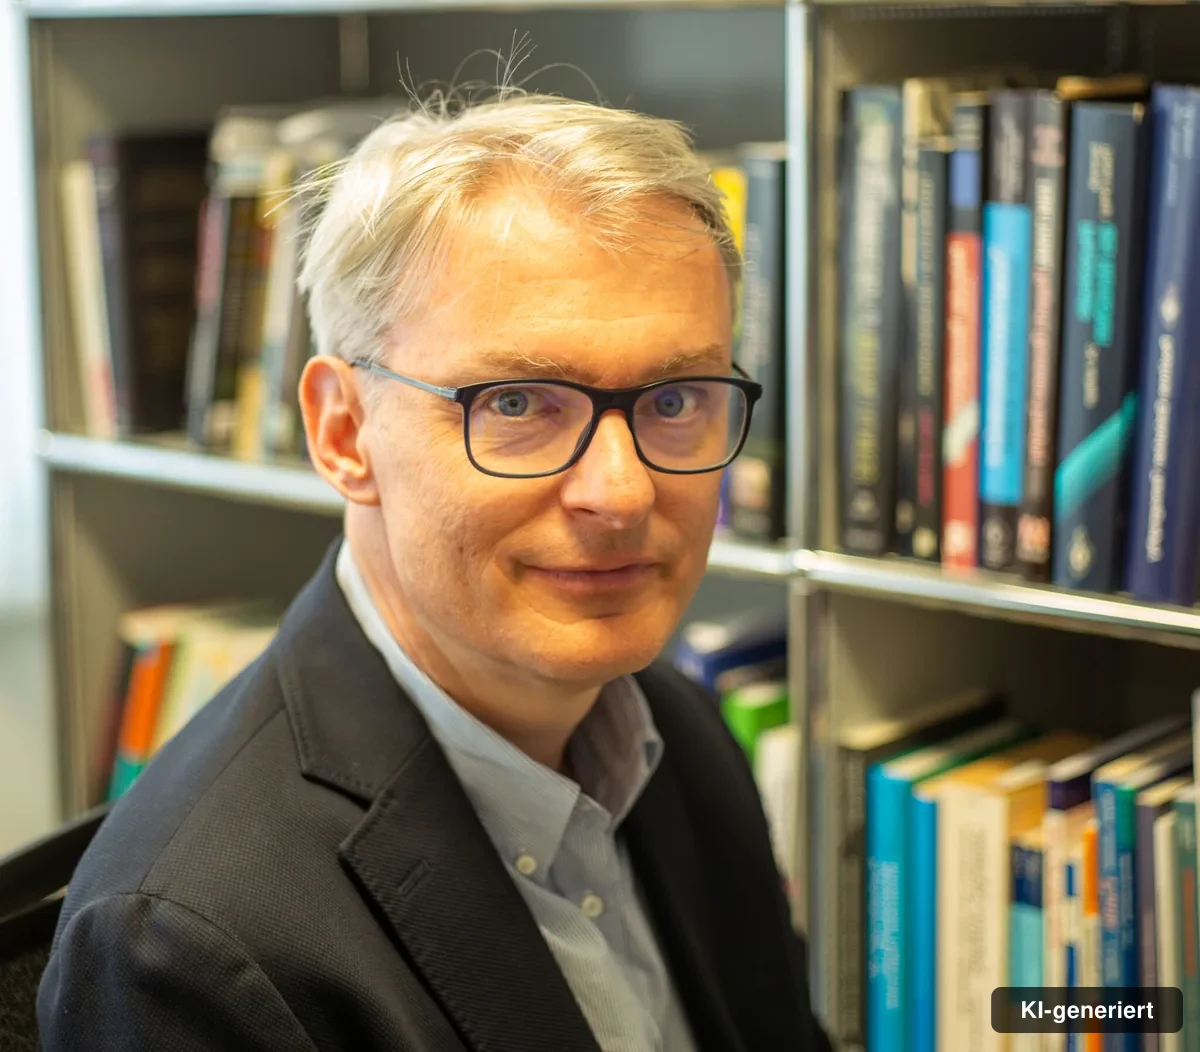
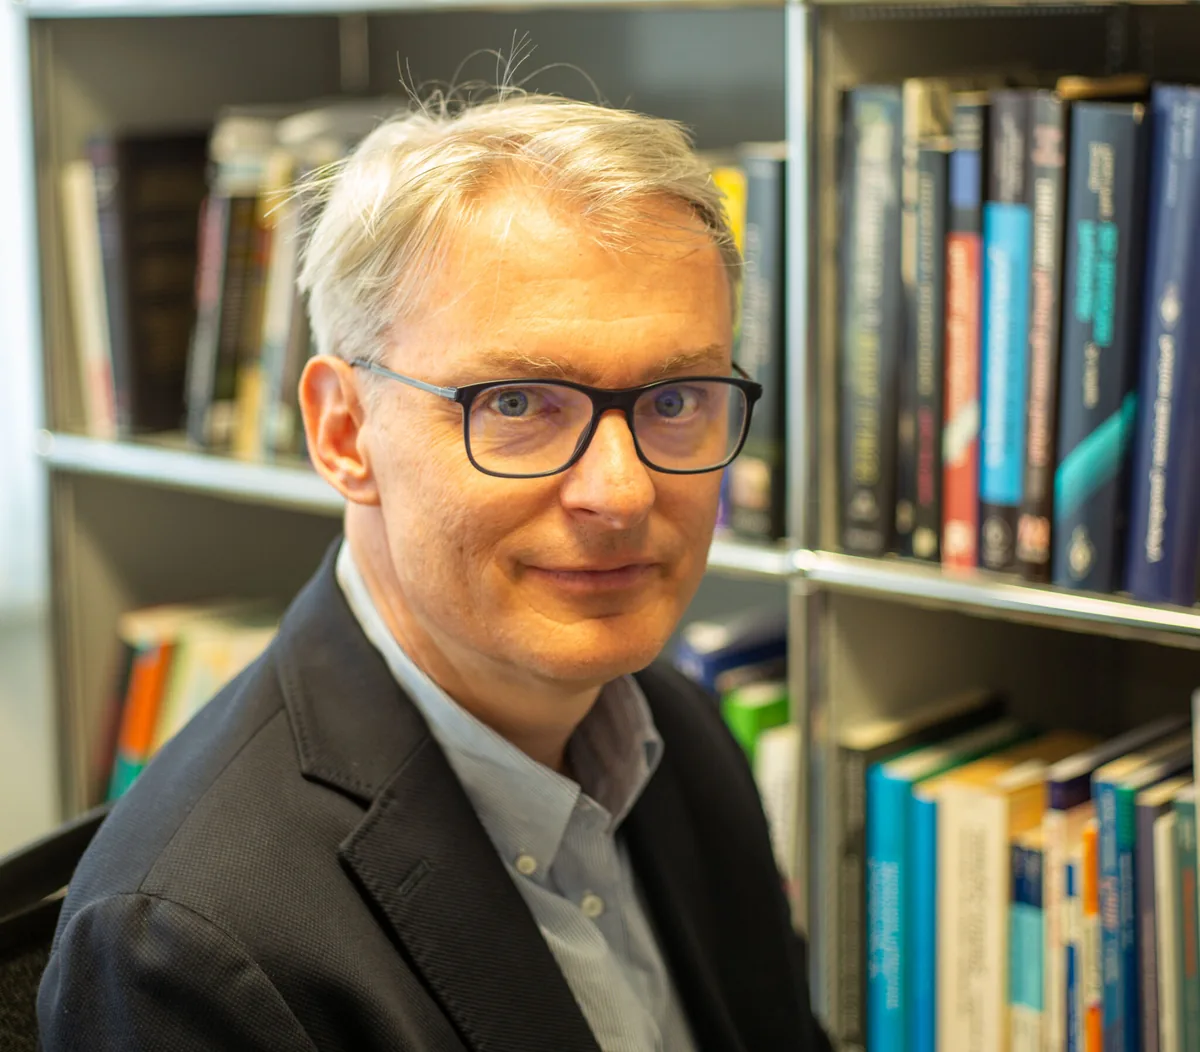
fix(ki-vo): echte Pressefotos faelschlich als KI markiert - korrigiert
Fehler: Die Regel "isNews:false -> KI" war zu grob. Die promi-*-Artikel
sind keine News, nutzen aber lizenzierte Pressefotos (ZDF, RTL, SRF,
SAT.1, Wikimedia CC, Verlagsfotos). 58 Bilder trugen faelschlich Badge
und trainedAlgorithmicMedia.

Ein KI-Label auf einem lizenzierten Pressefoto ist selbst irrefuehrend
(§ 5 UWG) und entwertet die Credit-Angabe des Rechteinhabers.

Korrektur:
- Bilder aus der Git-History vor dem Batch wiederhergestellt (Badge weg)
- nur echten Credit als XMP gesetzt, kein trainedAlgorithmicMedia
- istEchtesFoto() ergaenzt: aiGenerated beruecksichtigt jetzt den Credit,
  nicht nur isNews

Changed region(s): [[0.8017, 0.9125, 0.9867, 1.0]]

diff --git a/src/app/singles-partnersuche/[slug]/page.tsx b/src/app/singles-partnersuche/[slug]/page.tsx
@@ -43,6 +43,16 @@ function extractH2s(content: any): { label: string; id: string }[] {
 
 const BASE_URL = 'https://blaulichtsingles.ch/magazin';
 
+/**
+ * Echte Pressefotos erkennt man am Credit mit Quellenangabe. Sie duerfen NIE als
+ * KI gekennzeichnet werden — das waere selbst irrefuehrend (§ 5 UWG) und entwertet
+ * die Lizenzangabe des Rechteinhabers.
+ */
+function istEchtesFoto(credit?: string | null): boolean {
+  if (!credit) return false;
+  return /Foto:|Wikimedia|CC[- ]BY|GFDL|dpa|Getty|imago|ZDF|RTL|SRF|ARD|MDR|NDR|SWR|SAT\.1|ProSieben|VOX|Joyn|Verlag|Pressefoto|Autorenfoto/i.test(credit);
+}
+
 export async function generateMetadata({ params }: { params: Promise<{ slug: string }> }) {
   const { slug } = await params;
   const article = await reader.collections.articles.read(slug);
@@ -152,7 +162,7 @@ export default async function ClusterArticle({ params }: { params: Promise<{ slu
         date={article.publishedAt || undefined}
         /* News nutzen echte Pressebilder, alles andere ist KI-generiert
            (Art. 50 Abs. 4 KI-VO). */
-        aiGenerated={!article.isNews}
+        aiGenerated={!article.isNews && !istEchtesFoto(article.featuredImageCredit)}
       />
 
       <StickyTOC items={extractH2s(article.content)} />
